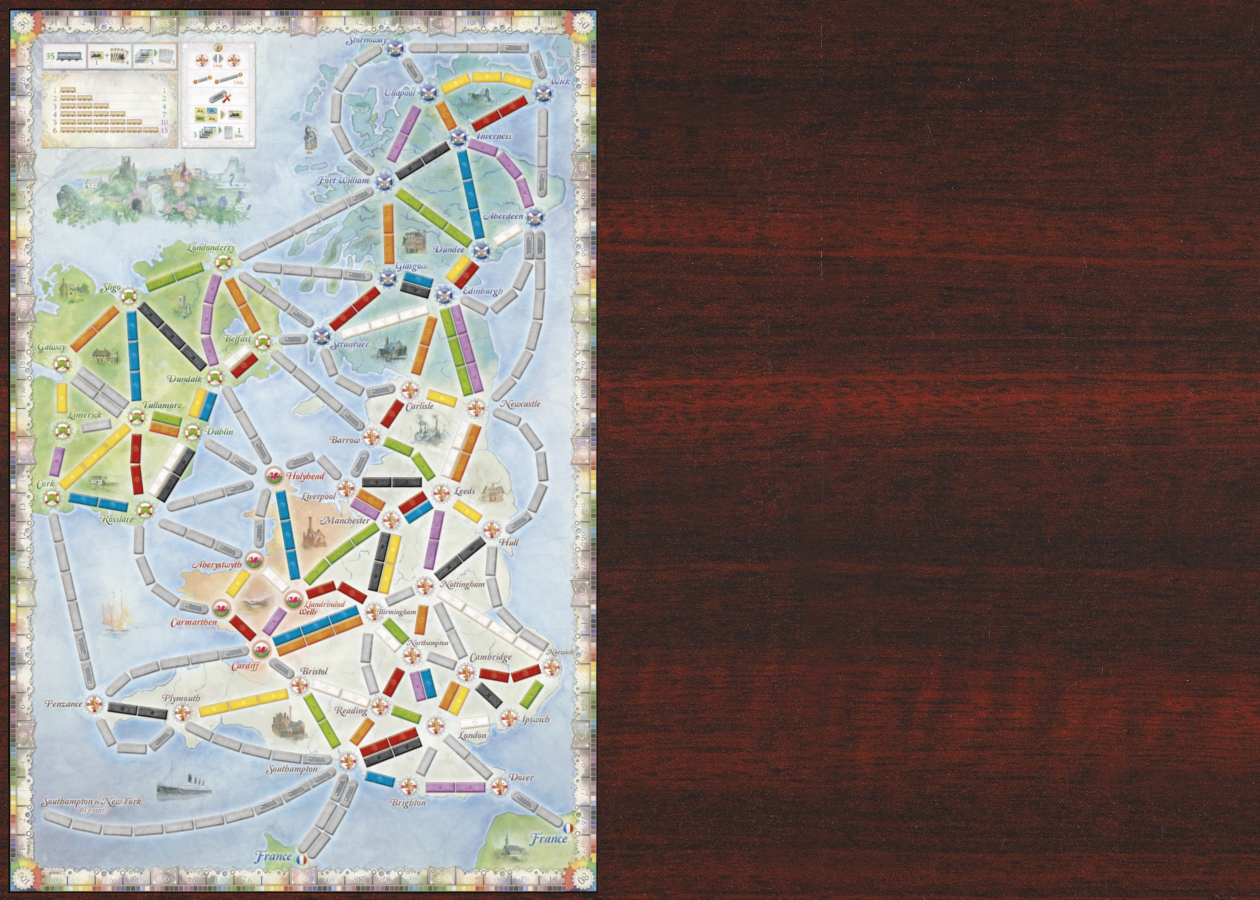
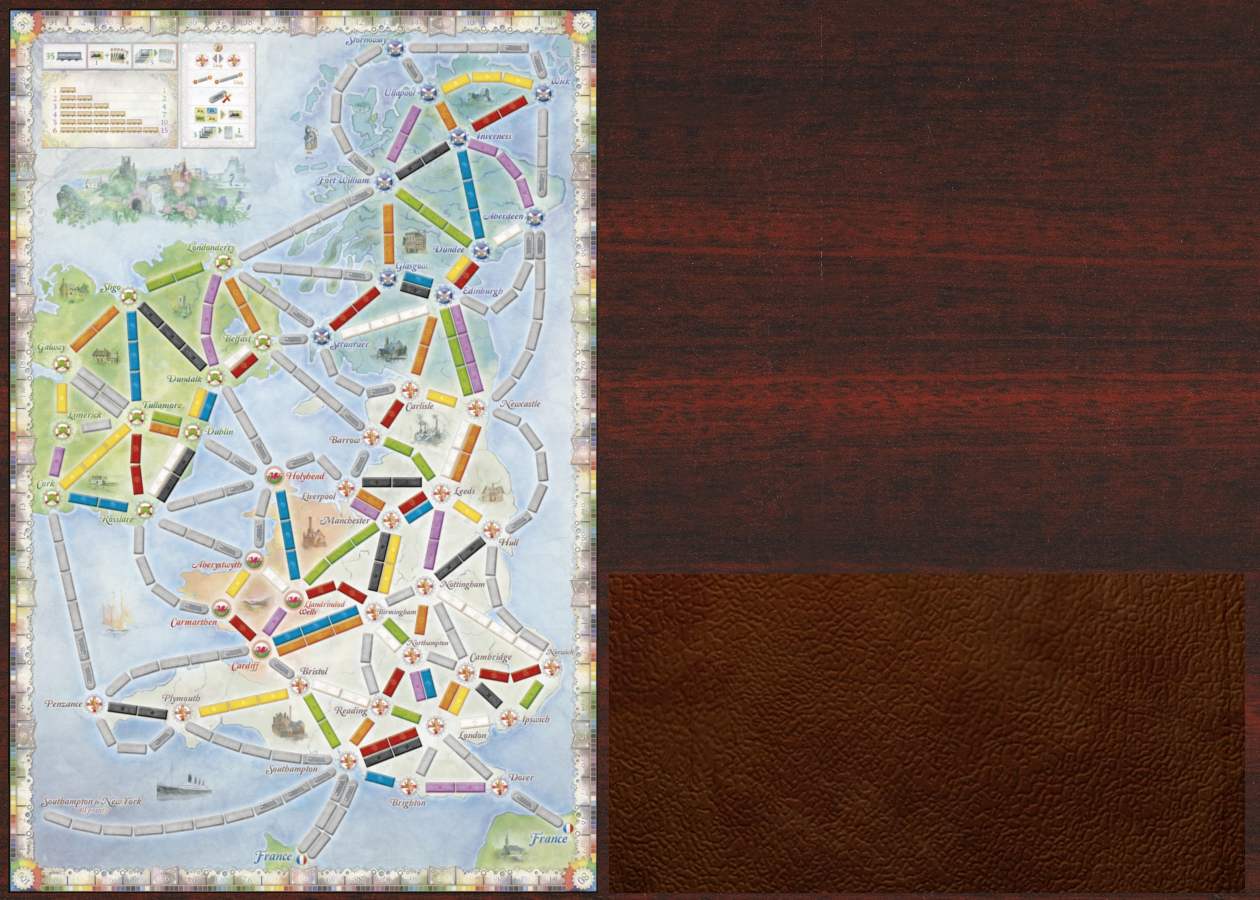
background update, adding new GameBoard

Changed region(s): [[0.4643, 0.6222, 0.9905, 0.9956]]

diff --git a/GameBoard.java b/GameBoard.java
@@ -14,8 +14,8 @@ public class GameBoard
     protected ArrayList<Tech> techAvail;
     protected Deck trainDeck;
     protected Deck destDeck;
-    protected boolean lastTurn;
-    protected int currentPlayer;
+    private boolean lastTurn;
+    private int currentPlayer;
 
     /**
      * Purchases the route between two cities for the current player
@@ -30,19 +30,36 @@ public class GameBoard
         Route desRoute = getRoute(cityA.name,cityB.name);
         boolean success = false;
         if(desRoute == null) return success;
-        if(desRoute.ownerID == -1){
+        if(desRoute.ownerID == -1 || hasTech(curPlayer,Technology.RightOfWay)){
             if(techChecker(curPlayer,desRoute,cityA,cityB)){
                 ArrayList<Card> trainsToSpend = selectTrains();
                 if(desRoute instanceof FerryRoute){
                     if(purchase(desRoute,curPlayer,((FerryRoute)desRoute).locomotiveRequirement)){
                         success = true;
                         desRoute.ownerID = curPlayer.playerID;
+                        if(hasTech(curPlayer,Technology.BoilerLagging))curPlayer.score += 1;
+                        if(hasTech(curPlayer,Technology.SteamTurbine))curPlayer.score += 2;
+                        if(desRoute.trainRequirement == 1) curPlayer.score += 1;
+                        else if(desRoute.trainRequirement == 2) curPlayer.score += 2;
+                        else if(desRoute.trainRequirement == 3) curPlayer.score += 4;
+                        else if(desRoute.trainRequirement == 4) curPlayer.score += 7;
+                        else if(desRoute.trainRequirement == 5) curPlayer.score += 10;
+                        else if(desRoute.trainRequirement == 6) curPlayer.score += 15;
+                        else curPlayer.score += 30;
                     }
                 }
                 else{
                     if(purchase(desRoute,curPlayer,0)){
                         success = true;
                         desRoute.ownerID = curPlayer.playerID;
+                        if(hasTech(curPlayer,Technology.BoilerLagging))curPlayer.score += 1;
+                        if(desRoute.trainRequirement == 1) curPlayer.score += 1;
+                        else if(desRoute.trainRequirement == 2) curPlayer.score += 2;
+                        else if(desRoute.trainRequirement == 3) curPlayer.score += 4;
+                        else if(desRoute.trainRequirement == 4) curPlayer.score += 7;
+                        else if(desRoute.trainRequirement == 5) curPlayer.score += 10;
+                        else if(desRoute.trainRequirement == 6) curPlayer.score += 15;
+                        else curPlayer.score += 30;
                     }
                 }
             }
@@ -181,6 +198,9 @@ public class GameBoard
      * @return Method returns true if the player can buy the route, false if not
      */
     private boolean techChecker(Player player, Route route, City cityA, City cityB){
+        //You need no tech for the southampton to New York route this base case handles that;
+        if(route.cityA == NewYork || route.cityB == NewYork)return true;
+
         //Next 2 if blocks handles all checks for region techs 
         if(cityA.region != Region.England){
             if(cityA.region == Region.Scotland){
@@ -256,17 +276,17 @@ public class GameBoard
     }
 
     /**
-    * Method finds a route that connects two cities
-    *
-    * @param cityA The name of one of the cities you want to connect
-    * @param cityB The name of one of the cities you want to connect
-    *
-    * @return The Route object that connects the two cities
-    */
+     * Method finds a route that connects two cities
+     *
+     * @param cityA The name of one of the cities you want to connect
+     * @param cityB The name of one of the cities you want to connect
+     *
+     * @return The Route object that connects the two cities
+     */
     public Route getRoute(CityName cityA, CityName cityB) {
         for (int i = 0; i < routes.size(); i++) {
             if ((routes.get(i).cityA.equals(cityA) && routes.get(i).cityB.equals(cityB)) ||
-                    (routes.get(i).cityB.equals(cityA) && routes.get(i).cityA.equals(cityB)))
+            (routes.get(i).cityB.equals(cityA) && routes.get(i).cityA.equals(cityB)))
                 return routes.get(i);
         }
         return null;
@@ -282,6 +302,7 @@ public class GameBoard
     public boolean buyTech(Tech tech) {
         ArrayList<Card> trainsToSpend = selectTrains();
         ArrayList<Card> trainsSpent = new ArrayList<Card>();
+        Player curPlayer = players.get(currentPlayer);
         int locoCost = tech.cost;
         if(trainsToSpend.size() < locoCost)return false;
         else{
@@ -293,23 +314,23 @@ public class GameBoard
             }
             if(trainsSpent.size() == locoCost){
                 for(Card train: trainsSpent){
-                    currentPlayer.heldTrainCards.remove(train);
+                    curPlayer.heldTrainCards.remove(train);
                     trainDeck.discarded.add(train);
                 }
                 techAvail.remove(tech);
-                currentPlayer.tech.add(tech);
+                curPlayer.tech.add(tech);
                 return true;
             }
             else{
-                if(hasTech(currentPlayer,Technology.Booster)){
+                if(hasTech(curPlayer,Technology.Booster)){
                     if(locoCost == trainsSpent.size() + (trainsToSpend.size()/3)){
                         trainsSpent.addAll(trainsToSpend);
                         for(Card train: trainsSpent){
-                            currentPlayer.heldTrainCards.remove(train);
+                            curPlayer.heldTrainCards.remove(train);
                             trainDeck.discarded.add(train);
                         }
                         techAvail.remove(tech);
-                        currentPlayer.tech.add(tech);
+                        curPlayer.tech.add(tech);
                         return true;
                     }
                 }
@@ -317,11 +338,11 @@ public class GameBoard
                     if(locoCost == trainsSpent.size() + (trainsToSpend.size()/4)){
                         trainsSpent.addAll(trainsToSpend);
                         for(Card train: trainsSpent){
-                            currentPlayer.heldTrainCards.remove(train);
+                            curPlayer.heldTrainCards.remove(train);
                             trainDeck.discarded.add(train);
                         }
                         techAvail.remove(tech);
-                        currentPlayer.tech.add(tech);
+                        curPlayer.tech.add(tech);
                         return true;
                     }
                 }
@@ -361,11 +382,12 @@ public class GameBoard
         int score = 0;
         for(int i=0; i<player.heldDestinationCards.size(); i++){
             ArrayList<CityName> visited = new ArrayList<CityName>();
-            if(checkDestCard(player.playerID,((Dest)player.heldDestinationCards.get(i)).cityA,((Dest)player.heldDestinationCards.get(i)).cityB,visited))
+            if(checkDestCard(player.playerID,((Dest)player.heldDestinationCards.get(i)).cityA,((Dest)player.heldDestinationCards.get(i)).cityB,visited)){
                 score += ((Dest)player.heldDestinationCards.get(i)).pointValue;
                 player.completedDestCards++;
-            else
+            }else{
                 score -= ((Dest)player.heldDestinationCards.get(i)).pointValue;
+            }
         }
         return score;
     }
@@ -396,5 +418,47 @@ public class GameBoard
         }
         return false;
     }
-}
 
+    /**
+     * This method will figure out the length of a player's longest route
+     *
+     * @param player The player whose route you want to check.
+     *
+     * @return The length of the longest route the player owns
+     */
+    private int longestRoutePlayerOwns(Player player){
+        int pID = player.playerID;
+        int max = 0;
+        int temp = 0;
+        for(Route route: routes){
+            if(route.ownerID == pID){
+                temp = playerRouteLength(pID,route,new ArrayList<Route>());
+            }
+            if(temp > max) max = temp;
+        }
+        return max;
+    }
+
+    /**
+     * Helper method to check the length of a route containing the given route
+     *
+     * @param pID The player's identification number
+     * @param route The route you want to add to the long route
+     * @param visited The list of routes already included in the current route
+     *
+     * @return The length of the route containing the given route
+     */
+    private int playerRouteLength(int pID,Route route,ArrayList<Route> visited){
+        int max = 0;
+        int temp = 0;
+        visited.add(route);
+        for(Route rt: routes){
+            if(!visited.contains(rt) && rt.ownerID == pID && (rt.cityA == route.cityA ||
+                rt.cityB == route.cityB || rt.cityA == route.cityB || rt.cityB == rt.cityA)){
+                temp = playerRouteLength(pID,rt,visited.copy());
+            }
+            if(temp > max) max = temp;
+        }
+        return max + route.trainRequirement;
+    }
+}

diff --git a/GamePanel.java b/GamePanel.java
@@ -29,7 +29,7 @@ public class GamePanel extends JPanel{
 
         selectedTechCards = new ArrayList<Card>();
         selectedDestCards = new ArrayList<Card>();
-        
+
         viewTechnologyButt = new JButton("");
         viewTechnologyButt.setBounds(612, 508, 196, 51);
         viewTechnologyButt.setIcon(new ImageIcon(ImgLib.viewTechButtonUnselected));
@@ -142,7 +142,7 @@ public class GamePanel extends JPanel{
     }
 
     public ArrayList<Card> purchaseTechCards(){
-        int limit = 1, minimum = 0;
+        int limit = 1, minimum = 1;
         JFrame parentFrame = (JFrame)SwingUtilities.windowForComponent(this);
         CardSelectPanel panel = new CardSelectPanel("Purchase Technologies",db.tech);
         JDialog jd = new JDialog(parentFrame,true);
@@ -165,8 +165,12 @@ public class GamePanel extends JPanel{
         panel.purchaseButt.addActionListener(new java.awt.event.ActionListener() {
                 public void actionPerformed(java.awt.event.ActionEvent e)
                 {
-                    setSelectedTechCards(panel.getSelected());
-                    jd.dispose();
+                    if(panel.getNumberSelected() >= minimum){
+                        selectedTechCards = panel.getSelected();
+                        jd.dispose();
+                    }else{
+                        JOptionPane.showMessageDialog(new JFrame(), "You must select at least "+minimum+" cards");
+                    }
                 }
             });
 
@@ -206,7 +210,7 @@ public class GamePanel extends JPanel{
                 public void actionPerformed(java.awt.event.ActionEvent e)
                 {
                     if(panel.getNumberSelected() >= minimum){
-                        setSelectedDestCards(panel.getSelected());
+                        selectedDestCards = panel.getSelected();
                         jd.dispose();
                     }else{
                         JOptionPane.showMessageDialog(new JFrame(), "You must select at least "+minimum+" cards");
@@ -219,10 +223,6 @@ public class GamePanel extends JPanel{
         jd.setVisible(true);
 
         return selectedDestCards;
-    }
-
-    public void setSelectedDestCards(ArrayList<Card> selected){
-        selectedDestCards = selected;
     }
 
     public void showPlayerCards(String title,ArrayList<Card> cardsToShow){
@@ -250,12 +250,13 @@ public class GamePanel extends JPanel{
         super.paintComponent( g );
         g.drawImage(ImgLib.background,0,0,this);
         for(City c : cb.cities){
-            //g.setColor(Color.GREEN);
-            //g.drawRect(c.x,c.y,20,20);
+            g.setColor(Color.GREEN);
+            g.drawRect(c.x,c.y,20,20);
             if(c.hover)
                 g.drawImage(ImgLib.getHover(c.name), c.x-87, c.y-60, this);
         }
         drawPlayerHand(g);
+        //drawTrainDeck(g);
     } // end method paintComponent
 
     public void mouseCheckHoverCity(Point p){
@@ -306,7 +307,7 @@ public class GamePanel extends JPanel{
             int x = ((i%rows)*55)+(i%rows)*cardWidth+leftBorder;
             int y = ((i/rows)*7)+(i/rows)*cardHeight+topBorder;
             int count = CardCounter.countTrainColor(trainCards,order[i]);
-            if(count >= 0){
+            if(count > 0){
                 g.drawImage(Train.getImage(order[i]),x,y,cardWidth,cardHeight,this);
                 g.setColor(Color.WHITE);
                 g.drawString(count+"",x-15,y+25);
@@ -316,6 +317,7 @@ public class GamePanel extends JPanel{
 
     public RouteColor getClickedCard(Point point){
         int rows = 3, cardWidth=146, cardHeight=94, leftBorder=650, topBorder=585;//+39;
+        ArrayList<Card> trainCards = db.train;//GameBoard.getCurrPlayer().getTech();
         RouteColor[] order = new RouteColor[]{
                 RouteColor.BLACK,
                 RouteColor.GREEN,
@@ -332,11 +334,21 @@ public class GamePanel extends JPanel{
             int x = ((i%rows)*55)+(i%rows)*cardWidth+leftBorder;
             int y = ((i/rows)*7)+(i/rows)*cardHeight+topBorder;
             Rectangle imageBounds = new Rectangle(x,y,cardWidth, cardHeight);
-            if (imageBounds.contains(point)){
+            int count = CardCounter.countTrainColor(trainCards,order[i]);
+            if (imageBounds.contains(point) && count > 0){
                 System.out.println(order[i]);
                 return order[i];
             }
         }
         return null;
+    }
+
+    public void drawTrainDeck(Graphics g){
+        int cardWidth=146, cardHeight=94, leftBorder=603, topBorder=5;//+39;
+        for(int i=0; i < 9; i++){
+            int x = leftBorder;//((i%rows)*0)+(i%rows)*cardWidth+leftBorder;
+            int y = (i*4)+(i*cardHeight)+topBorder;
+            g.drawImage(ImgLib.backOfTrainCard,x,y,cardWidth,cardHeight,this);
+        }
     }
 }

diff --git a/Deck.java b/Deck.java
@@ -10,6 +10,7 @@ public class Deck
 {
     protected ArrayList<Card> deck = new ArrayList<Card>();
     protected ArrayList<Card> discarded = new ArrayList<Card>();
+    protected boolean shuffle = false;
 
     /**
      * This method shuffles the cards in the deck
@@ -28,10 +29,7 @@ public class Deck
     {
         ArrayList<Card> drawnCards = new ArrayList<Card>();
         for(int i = 0; i < x; i++)
-        {
-            drawnCards.add(deck.get(i));
-            deck.remove(i);
-        }
+            drawnCards.add(deck.remove(0));
         return drawnCards;
     }
 
@@ -67,6 +65,7 @@ public class Deck
         }
         //shuffle();
     }
+
     /**
      * This method rebuilds the deck by taking the discarded cards adding 
      * them to the deck and then clearing the discarded pile
@@ -75,10 +74,14 @@ public class Deck
     public void rebuildDeck()
     {
         this.deck.addAll(discarded);
+        Card c = deck.get(0);
+        if(c instanceof Train){
+           this.shuffle = true;
+        }
         shuffle();
         this.discarded.clear();
     }
-    
+
     /**
      * This method returns the deck size
      */
@@ -86,7 +89,7 @@ public class Deck
     {
         return this.deck.size();
     }
-    
+
     /**
      * This method adds discarded cards to the discarded ArrayList
      * @param x An ArrayList of cards that are going to be discarded

diff --git a/ImgLib.java b/ImgLib.java
@@ -15,6 +15,9 @@ public class ImgLib
 
     public static Image woodBackground;
 
+    public static Image backOfTrainCard;
+    public static Image backOfDestCard;
+
     //general Images needed more than once
     public static Image backButtonUnselected;
     public static Image backButtonHighlighted;
@@ -150,6 +153,11 @@ public class ImgLib
 
         background = toolkit.getImage(
             "resources/images/backgrounds/GameBackground.png");
+
+        backOfTrainCard = toolkit.getImage(
+            "resources/images/cards/BackOfCard.png");
+        backOfDestCard = toolkit.getImage(
+            "resources/images/cards/BackOfTicket.png");
 
         //Images for the buyTechScreen
         buyTech = toolkit.getImage(
